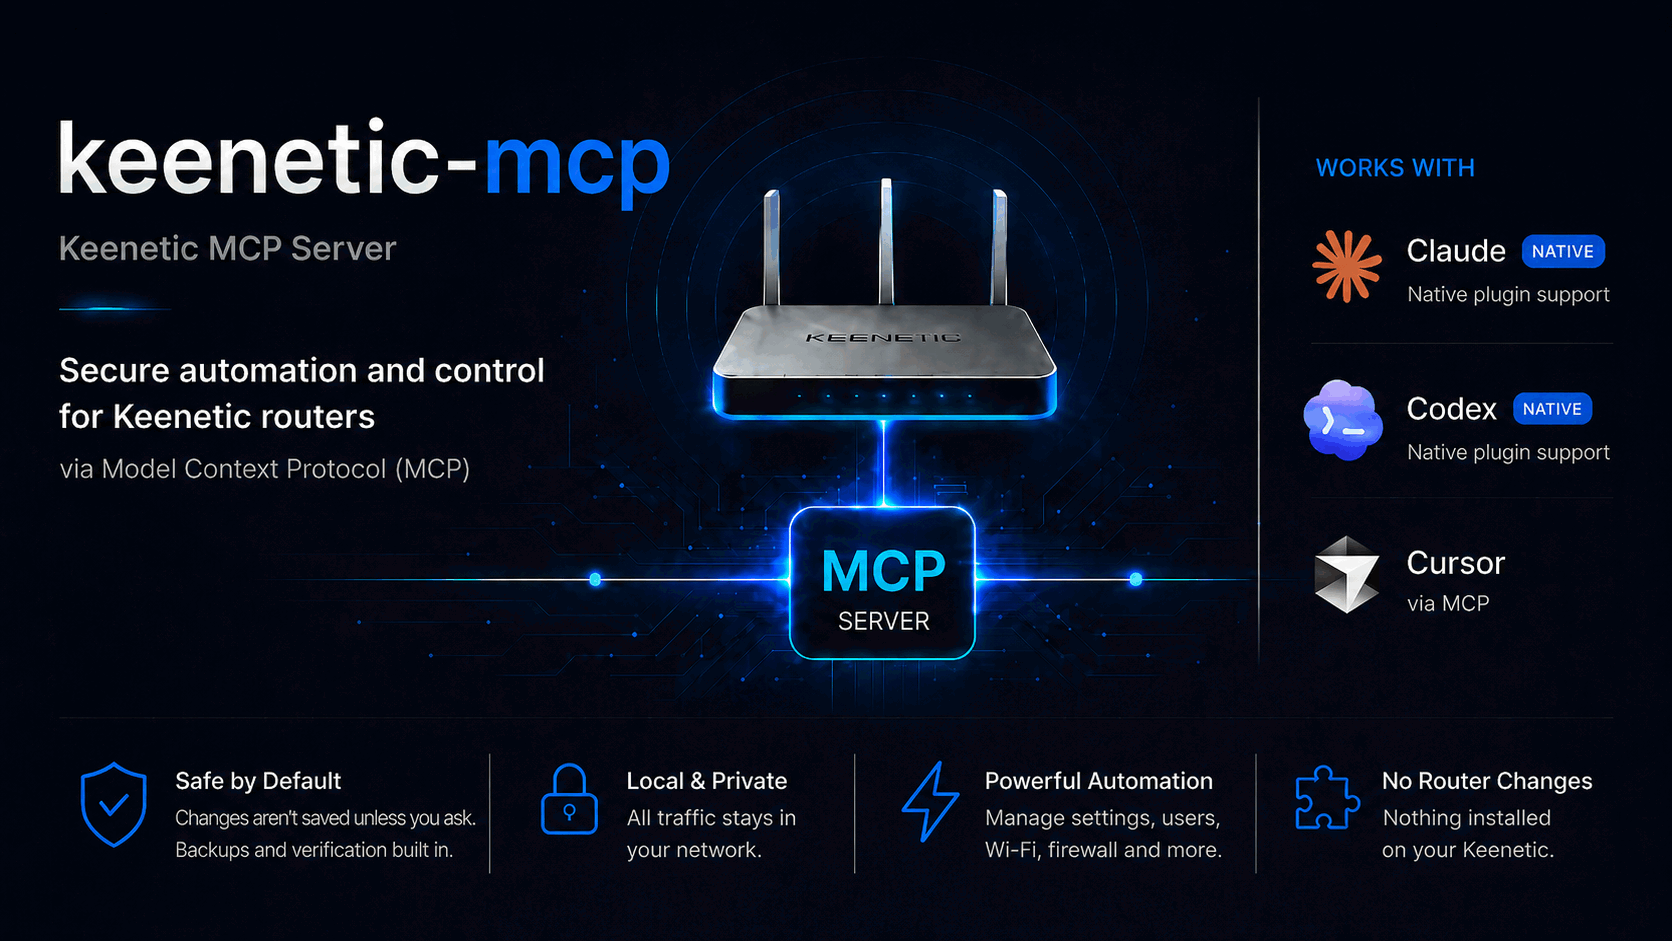
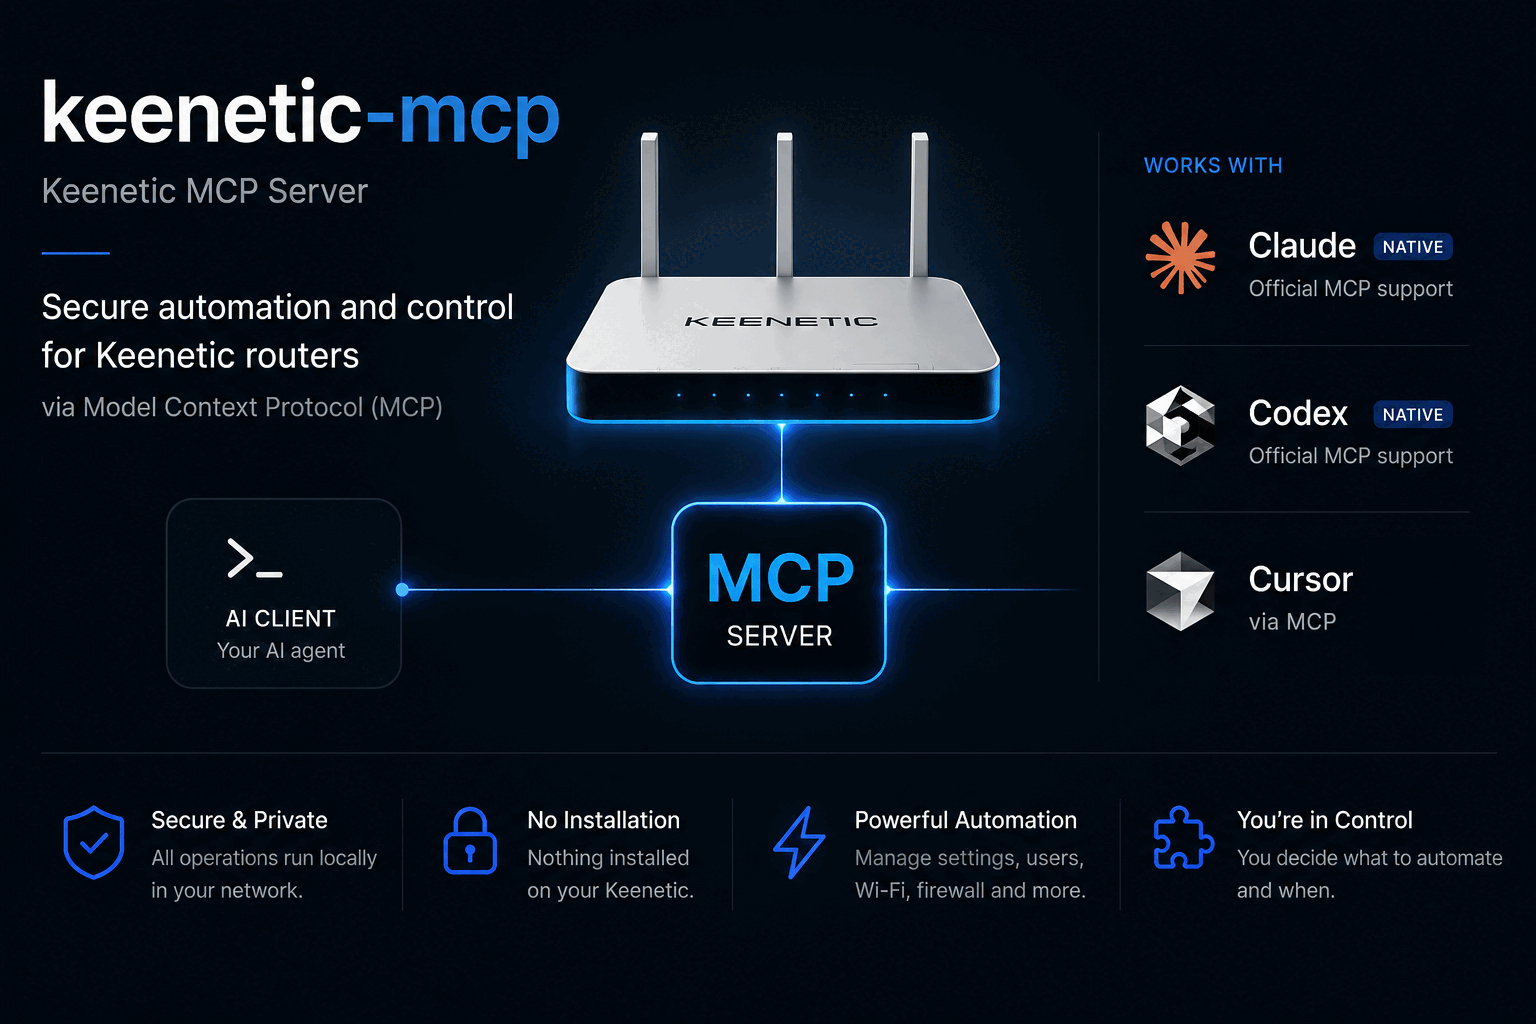
docs: cleaner background, and the feature blocks that replaced it
Same artwork family, redrawn background. The four blocks along the bottom
changed with it, so the alt text is rewritten rather than trimmed: secure and
private with everything running locally, no installation on the router, the
automation surface, and the user deciding what gets automated.

All four are things the server actually does. The read-only claim that was
wrong on the earlier version is gone entirely rather than reworded, and none of
what replaced it needed checking against the code beyond what the README
already documents.

Compresses better than every version before it: 1689 KB down to 344 KB at RMSE
0.0070, against 0.0102 for JPEG and 0.0092 for WebP. The cleaner background is
presumably why, since there is less noise to quantise.

diff --git a/README.md b/README.md
@@ -1,4 +1,4 @@
-![keenetic-mcp, the Keenetic MCP server: secure automation and control for Keenetic routers via the Model Context Protocol. Works with Claude and Codex through native plugins, and with Cursor over MCP. Safe by default: changes are not saved unless you ask, with backups and verification built in. Local and private, all traffic stays in your network. Manage settings, users, Wi-Fi and firewall. No router changes, nothing installed on your Keenetic.](https://raw.githubusercontent.com/salatmaster/keenetic-mcp/main/docs/banner.png)
+![keenetic-mcp, the Keenetic MCP server: secure automation and control for Keenetic routers via the Model Context Protocol. Your AI client talks to the MCP server, which talks to the router. Works natively with Claude and Codex, and with Cursor over MCP. Secure and private, all operations run locally in your network. No installation, nothing installed on your Keenetic. Manage settings, users, Wi-Fi and firewall. You decide what to automate and when.](https://raw.githubusercontent.com/salatmaster/keenetic-mcp/main/docs/banner.png)
 
 # keenetic-mcp
 
